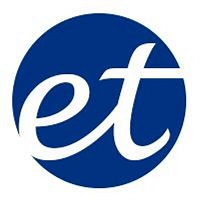
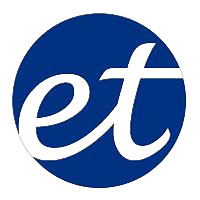
Intentar realizar una API para mostrar los cursos

diff --git a/public/css/main.css b/public/css/main.css
@@ -30,7 +30,7 @@ header {
 
 header div.username {
     float: right;
-    padding: 7px;
+    padding: 4px;
 }
 
 nav {
@@ -38,7 +38,6 @@ nav {
     width: calc(100% - 83%);
     height: 100vh;
     float: left;
-    padding: 15px;
     box-sizing: border-box;
 }
 
@@ -184,6 +183,6 @@ footer {
 }
 
 footer > p {
-    padding: 8px;
+    padding: 5px;
     text-align: center;
 }

diff --git a/resources/views/layouts/app.blade.php b/resources/views/layouts/app.blade.php
@@ -22,22 +22,26 @@
 
         <!-- Fontawesome -->
         <script src="https://kit.fontawesome.com/74ec47558a.js" crossorigin="anonymous"></script>
+
+        <!-- Boostrap -->
+        <link href="https://cdn.jsdelivr.net/npm/bootstrap@5.0.0-beta2/dist/css/bootstrap.min.css" rel="stylesheet" integrity="sha384-BmbxuPwQa2lc/FVzBcNJ7UAyJxM6wuqIj61tLrc4wSX0szH/Ev+nYRRuWlolflfl" crossorigin="anonymous">
     </head>
     <body>
         <header>
             <div class="logo">
-                <img src="{{ asset('images/esteve.jpeg') }}" draggable="true">
+                <img src="{{ asset('images/esteve-logo.png') }}" draggable="true">
                 <span>Instituto Esteve Terradas I Illa</span>
             </div>
             @unless (Auth::check())
-                <i class="fa fa-key" aria-hidden="true"></i> Invitad@
+                <div class="username">
+                    <i class="fa fa-key" aria-hidden="true"></i> Invitad@
+                </div>
             @else
                 <div class="username">
                     <i class="far fa-user"></i> {{ $userLogged['name'] }} <span style="margin-left: 10px; margin-right: 10px;">|</span> <i class="fas fa-sign-out-alt" style="color: #FC3232;"></i>
                 </div>
             @endunless
         </header>
-
 
         <nav>
             @if(Auth::check())

diff --git a/database/seeders/TermsTableSeeder.php b/database/seeders/TermsTableSeeder.php
@@ -1,0 +1,32 @@
+<?php
+
+namespace Database\Seeders;
+use App\Models\Term;
+use Illuminate\Database\Seeder;
+
+class TermsTableSeeder extends Seeder
+{
+    /**
+     * Run the database seeds.
+     *
+     * @return void
+     */
+    public function run()
+    {
+        // Let's truncate our existing records to start from scratch.
+        Term::truncate();
+
+        $faker = \Faker\Factory::create();
+
+        // And now, let's create a few articles in our database:
+        for ($i = 0; $i < 50; $i++) {
+            Term::create([
+                'start' => $faker->date,
+                'end' => $faker->date,
+                'name' => $faker->sentence,
+                'description' => $faker->paragraph,
+                'active' => mt_rand(0, 1)
+            ]);
+        }
+    }
+}

diff --git a/routes/web.php b/routes/web.php
@@ -3,6 +3,7 @@
 use Illuminate\Support\Facades\Route;
 use Illuminate\Support\Facades\Auth;
 
+
 /*
 |--------------------------------------------------------------------------
 | Web Routes
@@ -18,7 +19,7 @@ Route::get('/', function () {
     return view('welcome');
 });
 
-Auth::routes(['register' => false]);
+Auth::routes(['register' => true]);
 
 Route::name('admin')
   ->prefix('admin')
@@ -33,7 +34,7 @@ Route::name('admin')
 
     Route::get('/courses', function() {
         if(Auth::check()) {
-            return view('/admin/courses', ['userLogged' => Auth::user()]);
+            return view('/admin/courses', ['userLogged' => Auth::user(), 'terms' => [App\Http\Controllers\TermController::class, 'getTerms']]);
         }
     });
 

diff --git a/resources/views/admin/courses.blade.php b/resources/views/admin/courses.blade.php
@@ -6,8 +6,22 @@
     <div class="container">
         <div class="container-info">
             <h1>Cursos</h1>
-            <div class="breadcrumb">detail</div>
         </div>
-        aquí la lista de los cursos crack
+
+        <button type="button" class="btn btn-primary btn-sm" style="width: 10%;">Editar</button>
+
+        <table class="table">
+            <thead class="thead-light">
+                <tr>
+                    <th scope="col">#</th>
+                    <th scope="col">First</th>
+                    <th scope="col">Last</th>
+                    <th scope="col">Handle</th>
+                </tr>
+            </thead>
+            <tbody>
+
+            </tbody>
+        </table>
     </div>
 @endsection

diff --git a/routes/api.php b/routes/api.php
@@ -2,6 +2,7 @@
 
 use Illuminate\Http\Request;
 use Illuminate\Support\Facades\Route;
+use App\Http\Controllers\TermController;
 
 /*
 |--------------------------------------------------------------------------
@@ -17,3 +18,5 @@ use Illuminate\Support\Facades\Route;
 Route::middleware('auth:api')->get('/user', function (Request $request) {
     return $request->user();
 });
+
+Route::resource('terms', [TermController::class, 'all']);

diff --git a/app/Models/Term.php b/app/Models/Term.php
@@ -12,6 +12,8 @@ class Term extends Model
 {
     use HasFactory;
 
+    protected $fillable = ['name', 'description', 'active'];
+
     public function enrolments() {
         return $this->hasMany(Enrolment::class);
     }
@@ -19,5 +21,4 @@ class Term extends Model
     public function careers() {
         return $this->hasMany(Career::class);
     }
-
 }

diff --git a/app/Http/Controllers/TermController.php b/app/Http/Controllers/TermController.php
@@ -1,0 +1,11 @@
+<?php
+
+namespace App\Http\Controllers;
+use App\Models\Term;
+
+class TermController extends Controller
+{
+    public function getTerms() {
+        return response()->json(['terms'=>Term::get()], 200);
+    }
+}

diff --git a/resources/views/auth/login.blade.php b/resources/views/auth/login.blade.php
@@ -1,5 +1,7 @@
 @extends('layouts.app')
 
+@section('title', 'Login')
+
 @section('content')
 <div class="container">
     <div class="row justify-content-center">

diff --git a/app/Models/User.php b/app/Models/User.php
@@ -57,5 +57,5 @@ class User extends Authenticatable
         $role = (array)$role;
 
         return in_array($this->role, $role);
-     }
+    }
 }
